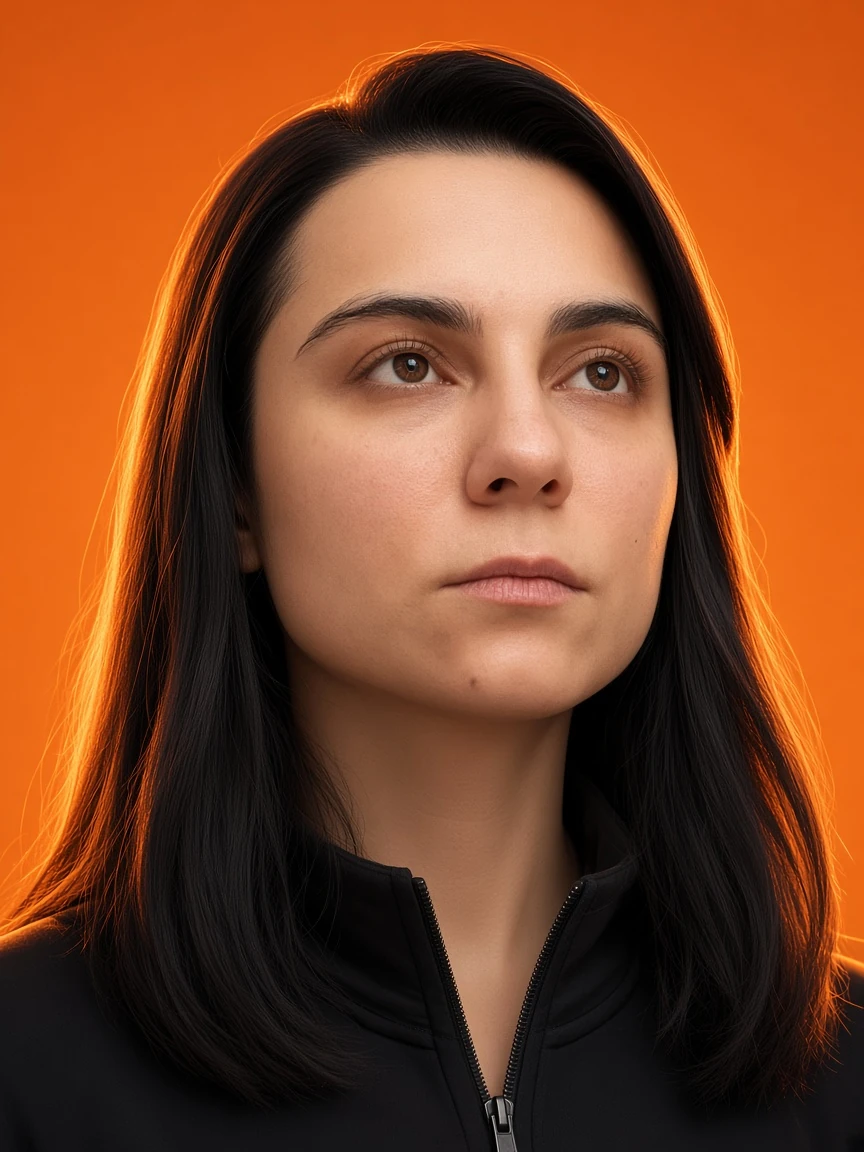
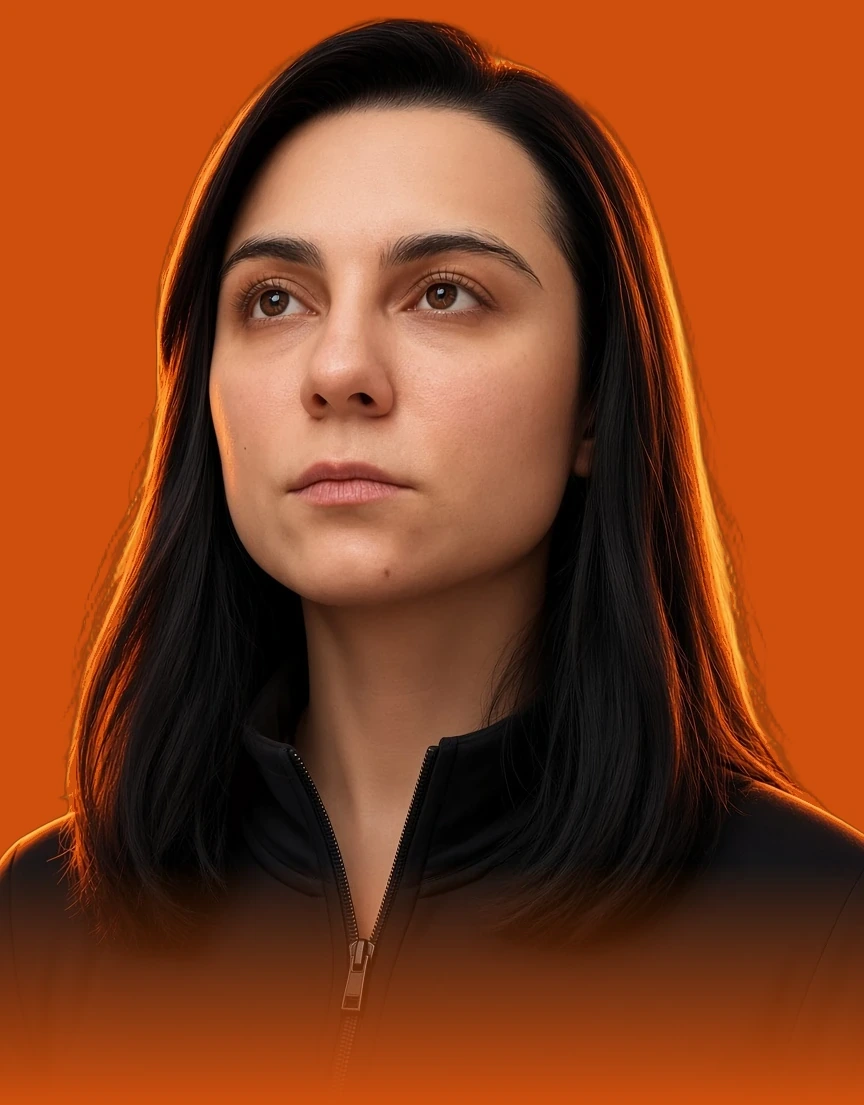
Restore the design copy and turn the portrait toward the text
The hero again says «Всё логично» with the original lede, and the button is «Мои работы». The bust looks toward the type, sits uncropped on the orange field, and keeps the warm rim light from the reference.

diff --git a/src/pages/Home.tsx b/src/pages/Home.tsx
@@ -74,20 +74,19 @@ function Home() {
     <>
       <section id="top" className="hero-splash">
         <div className="hero-splash-copy">
-          <p className="hero-splash-kicker">Welcome to a new version of you</p>
+          <p className="hero-splash-kicker">UX/UI · финтех</p>
           <h1 className="hero-splash-title">
-            <span>A vision</span>
-            <span>of future</span>
-            <span>augmentation</span>
+            <span>Всё</span>
+            <span>логично</span>
           </h1>
           <p className="hero-splash-lede">
-            Future where carbon fiber, titanium, and intuition coexist. Not
-            machine, not man. Something beautifully in between.
+            Интерфейсы, в которых всё логично. Слушаю пользователей, слышу команду
+            и уже 5 лет собираю продукты, которым удобно доверять.
           </p>
           <button type="button" className="hero-splash-cta" onClick={() => {
-            document.getElementById('contacts')?.scrollIntoView({ behavior: 'smooth' })
+            document.getElementById('work')?.scrollIntoView({ behavior: 'smooth' })
           }}>
-            Book a call
+            Мои работы
           </button>
         </div>
         <HeroAvatar />

diff --git a/src/App.css b/src/App.css
@@ -223,10 +223,10 @@ body {
 .hero-splash-title {
   margin: 0;
   font-family: Inter, system-ui, sans-serif;
-  font-weight: 500;
-  font-size: clamp(2.6rem, 5.2vw, 4.5rem);
-  line-height: 0.98;
-  letter-spacing: -0.035em;
+  font-weight: 600;
+  font-size: clamp(3rem, 6vw, 5.2rem);
+  line-height: 0.96;
+  letter-spacing: -0.04em;
   color: #fff;
 }
 
@@ -236,25 +236,23 @@ body {
 
 .hero-splash-lede {
   margin: 1.4rem 0 0;
-  max-width: 16rem;
-  font-size: 0.78rem;
-  line-height: 1.45;
-  color: rgba(255, 255, 255, 0.72);
+  max-width: 22rem;
+  font-size: 0.92rem;
+  line-height: 1.5;
+  color: rgba(255, 255, 255, 0.82);
 }
 
 .hero-splash-cta {
   cursor: pointer;
-  margin-top: 2.4rem;
+  margin-top: 2.2rem;
   border: 0;
   border-radius: 999px;
-  padding: 0.72rem 1.15rem;
+  padding: 0.78rem 1.25rem;
   background: #fff;
   color: #1a120e;
   font: inherit;
-  font-size: 0.72rem;
+  font-size: 0.88rem;
   font-weight: 600;
-  letter-spacing: 0.08em;
-  text-transform: uppercase;
 }
 
 .eyebrow {

diff --git a/src/HeroAvatar.css b/src/HeroAvatar.css
@@ -1,30 +1,33 @@
 .hero-avatar-stage--splash {
   position: absolute;
   right: 0;
-  top: 0;
+  bottom: 0;
   z-index: 1;
   height: 100%;
-  width: min(58vw, 72dvh);
+  width: min(56vw, 70dvh);
+  display: flex;
+  align-items: flex-end;
+  justify-content: flex-end;
+  background: transparent;
+  border: 0;
+  overflow: visible;
 }
 
 .hero-avatar-photo {
   display: block;
-  width: 100%;
   height: 100%;
-  object-fit: cover;
-  object-position: 52% 28%;
+  width: auto;
+  max-width: 100%;
+  object-fit: contain;
+  object-position: right bottom;
   pointer-events: none;
+  border: 0;
+  background: transparent;
 }
 
 @media (max-width: 860px) {
   .hero-avatar-stage--splash {
     width: 100%;
-    height: 62%;
-    top: auto;
-    bottom: 0;
-  }
-
-  .hero-avatar-photo {
-    object-position: 50% 12%;
+    height: 58%;
   }
 }
